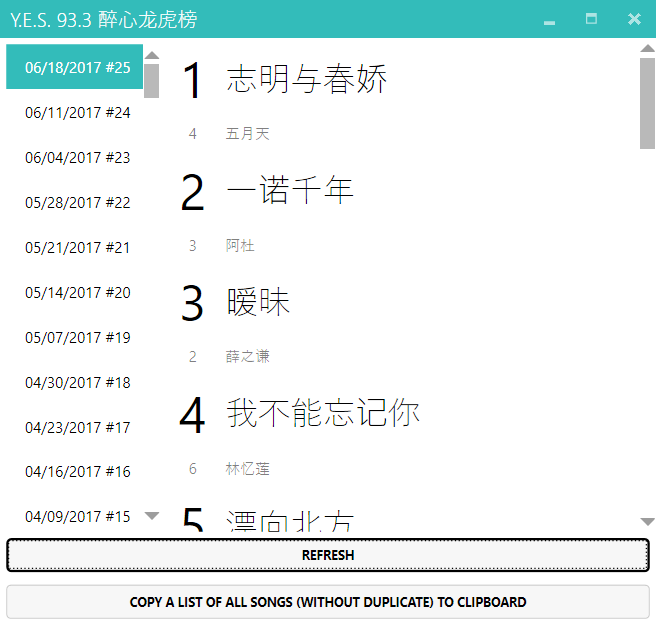
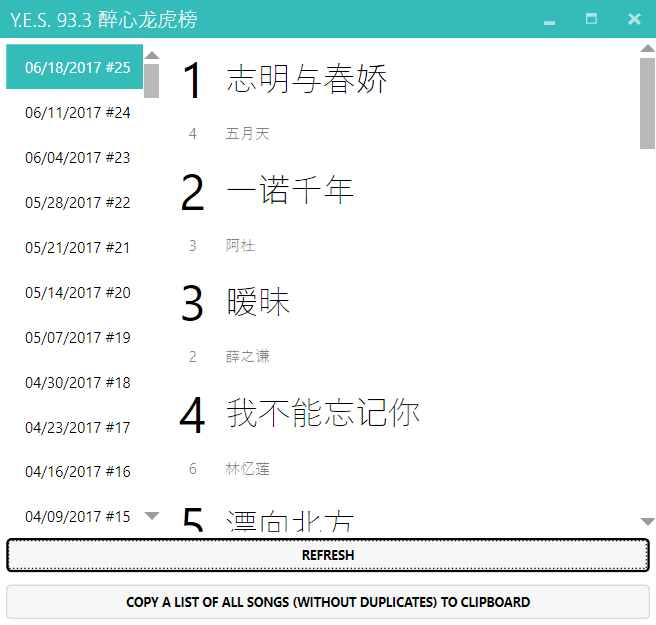
style: fix typo

Changed region(s): [[0.1829, 0.9424, 0.8232, 0.9728]]

diff --git a/src/gLhbViewer/MainWindow.xaml b/src/gLhbViewer/MainWindow.xaml
@@ -134,7 +134,7 @@
 				Command="{Binding RefreshCommand}" />
 			<Button
 				Margin="5"
-				Content="Copy a list of all songs (without duplicate) to clipboard"
+				Content="Copy a list of all songs (without duplicates) to clipboard"
 				Command="{Binding CopySongListToClipboardCommand}"></Button>
 		</StackPanel>
 	</Grid>
